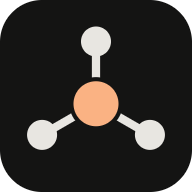
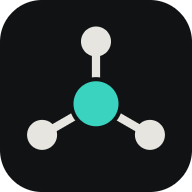
feat(web): add hybrid light and dark themes

Changed region(s): [[0.375, 0.4062, 0.625, 0.6562]]

diff --git a/web/src/styles.css b/web/src/styles.css
@@ -1,21 +1,26 @@
-/* Hub console. Dark, compact, restrained; modeled on Claude Code web's structure. */
+/* Hub console. Gateway-neutral surfaces with Hub's warm editorial session content. */
 :root {
-  --bg: #141413;
-  --side: #1a1a18;
-  --raise: #1f1f1d;
-  --raise-2: #262624;
-  --line: #2a2a27;
-  --line-2: #3a3a36;
-  --text: #e8e6e1;
-  --muted: #9b9890;
-  --faint: #6f6c65;
-  --accent: #fab283;
-  --accent-ink: #1b130d;
-  --ok: #7fb685;
-  --warn: #e5c07b;
-  --err: #e06c75;
-  --add: #7fb685;
-  --del: #e06c75;
+  --bg: #f6f7f9;
+  --side: #eef0f3;
+  --raise: #ffffff;
+  --raise-2: #e8ebef;
+  --line: #d9dde3;
+  --line-2: #c9ced6;
+  --text: #22252a;
+  --muted: #69707b;
+  --faint: #9299a3;
+  --accent: #0e7268;
+  --accent-ink: #ffffff;
+  --ok: #16834a;
+  --warn: #9a5b08;
+  --err: #b42318;
+  --add: #16834a;
+  --del: #b42318;
+  --violet: #8954c7;
+  --orange: #b96508;
+  --blue: #2769b4;
+  --mark: #22252a;
+  --shadow: #1018281f;
   --serif: ui-serif, "Iowan Old Style", "Palatino Linotype", Palatino, Georgia, serif;
   --sans: system-ui, -apple-system, "Segoe UI", Roboto, "Helvetica Neue", Arial, sans-serif;
   --mono: ui-monospace, SFMono-Regular, "SF Mono", Menlo, Consolas, monospace;
@@ -24,7 +29,25 @@
   --col: 680px;
   --r: 8px;
   --font-scale: 1;
+  color-scheme: light;
+}
+:root[data-theme="dark"] {
   color-scheme: dark;
+  --bg: #101214; --side: #171a1e; --raise: #1b1f24; --raise-2: #22272d;
+  --line: #2d333b; --line-2: #3a424d; --text: #e7e5e0; --muted: #9ca3ad; --faint: #6f7782;
+  --accent: #3ad3bf; --accent-ink: #04201c; --ok: #50d890; --warn: #efb851; --err: #ff8e82;
+  --add: #50d890; --del: #ff8e82; --violet: #b68cff; --orange: #f2a340; --blue: #64a8ef;
+  --mark: #e7e5e0; --shadow: #00000066;
+}
+@media (prefers-color-scheme: dark) {
+  :root:not([data-theme="light"]) {
+    color-scheme: dark;
+    --bg: #101214; --side: #171a1e; --raise: #1b1f24; --raise-2: #22272d;
+    --line: #2d333b; --line-2: #3a424d; --text: #e7e5e0; --muted: #9ca3ad; --faint: #6f7782;
+    --accent: #3ad3bf; --accent-ink: #04201c; --ok: #50d890; --warn: #efb851; --err: #ff8e82;
+    --add: #50d890; --del: #ff8e82; --violet: #b68cff; --orange: #f2a340; --blue: #64a8ef;
+    --mark: #e7e5e0; --shadow: #00000066;
+  }
 }
 * { box-sizing: border-box; }
 /* Text size: every text size is in rem, and the root size follows --font-scale (Settings → Appearance, pinch). */
@@ -55,7 +78,7 @@ kbd { font: 0.6875rem var(--mono); color: var(--faint); border: 1px solid var(--
 .btn:disabled { opacity: 0.45; cursor: default; }
 .btn.small { min-height: 26px; height: auto; padding: 0 9px; font-size: 0.7812rem; }
 .btn.primary { background: var(--accent); color: var(--accent-ink); border-color: transparent; font-weight: 600; }
-.btn.primary:hover:not(:disabled) { background: #fbc29c; }
+.btn.primary:hover:not(:disabled) { background: color-mix(in srgb, var(--accent) 88%, var(--text)); }
 .btn.danger { color: var(--err); }
 .icon-btn { display: inline-grid; place-items: center; width: 30px; height: 30px; border-radius: 6px; border: 0; background: transparent; color: var(--muted); cursor: pointer; }
 .icon-btn:hover:not(:disabled) { background: var(--raise-2); color: var(--text); }
@@ -71,7 +94,7 @@ input:focus, select:focus, textarea:focus { outline: none; border-color: var(--l
 .chip .count { margin-left: 4px; color: var(--accent); }
 .card { background: var(--raise); border: 1px solid var(--line); border-radius: 10px; padding: 14px; }
 .banner { display: flex; gap: 12px; align-items: center; justify-content: space-between; border: 1px solid var(--line); background: var(--side); border-radius: var(--r); padding: 8px 12px; margin: 8px 0; }
-.banner.warn { border-color: #5a4a2a; color: var(--warn); margin: 0; border-radius: 0; border-width: 0 0 1px; }
+.banner.warn { border-color: color-mix(in srgb, var(--warn) 45%, var(--line)); color: var(--warn); margin: 0; border-radius: 0; border-width: 0 0 1px; }
 .badge { min-width: 18px; height: 18px; padding: 0 5px; border-radius: 9px; background: var(--accent); color: var(--accent-ink); font-size: 0.6875rem; font-weight: 700; display: inline-grid; place-items: center; }
 .badge-pill { margin-left: 6px; font-size: 0.6875rem; padding: 1px 6px; border-radius: 8px; border: 1px solid var(--line-2); color: var(--muted); }
 .badge-pill.off { color: var(--err); }
@@ -79,9 +102,9 @@ input:focus, select:focus, textarea:focus { outline: none; border-color: var(--l
 /* status */
 .status { display: inline-grid; place-items: center; width: 14px; height: 14px; flex: none; }
 .status-dot { width: 7px; height: 7px; border-radius: 50%; background: var(--faint); }
-.status.blocked .status-dot { background: var(--warn); box-shadow: 0 0 0 3px #e5c07b22; }
+.status.blocked .status-dot { background: var(--warn); box-shadow: 0 0 0 3px color-mix(in srgb, var(--warn) 14%, transparent); }
 .status.error .status-dot { background: var(--err); }
-.spinner { width: 12px; height: 12px; border-radius: 50%; border: 1.6px solid #fab28344; border-top-color: var(--accent); animation: spin 0.8s linear infinite; display: inline-block; flex: none; }
+.spinner { width: 12px; height: 12px; border-radius: 50%; border: 1.6px solid color-mix(in srgb, var(--accent) 27%, transparent); border-top-color: var(--accent); animation: spin 0.8s linear infinite; display: inline-block; flex: none; }
 .spinner.small { width: 10px; height: 10px; }
 @keyframes spin { to { transform: rotate(360deg); } }
 .unread-dot { width: 6px; height: 6px; border-radius: 50%; background: var(--accent); display: inline-block; margin-left: 6px; flex: none; }
@@ -98,12 +121,12 @@ input:focus, select:focus, textarea:focus { outline: none; border-color: var(--l
 .main { flex: 1; min-width: 0; position: relative; display: flex; flex-direction: column; min-height: 0; }
 .expand-sidebar { position: absolute; top: 9px; left: 8px; z-index: 5; }
 .shell.collapsed .topbar, .shell.collapsed .home-head { padding-left: 48px; }
-.conn-banner { background: #3a2f1a; color: var(--warn); text-align: center; font-size: 0.7812rem; padding: 3px; }
+.conn-banner { background: color-mix(in srgb, var(--warn) 16%, var(--bg)); color: var(--warn); text-align: center; font-size: 0.7812rem; padding: 3px; }
 
 .side-top { display: flex; align-items: center; justify-content: space-between; padding: 10px 8px 6px 14px; }
 .brand { display: flex; align-items: center; gap: 8px; }
 .brand-mark { flex: none; }
-.hub-mark { color: var(--text); --mark-gap: var(--bg); }
+.hub-mark { color: var(--mark); --mark-gap: var(--bg); }
 .hub-mark-gap { fill: var(--mark-gap); }
 .hub-mark-hub { fill: var(--accent); }
 .sidebar .hub-mark { --mark-gap: var(--side); }
@@ -139,7 +162,7 @@ input:focus, select:focus, textarea:focus { outline: none; border-color: var(--l
 .avatar.large { width: 40px; height: 40px; font-size: 1.0625rem; }
 
 /* menus and dialogs */
-.menu { position: fixed; z-index: 50; min-width: 200px; max-width: 320px; background: var(--raise); border: 1px solid var(--line-2); border-radius: 10px; padding: 4px; box-shadow: 0 12px 32px #0008; }
+.menu { position: fixed; z-index: 50; min-width: 200px; max-width: 320px; background: var(--raise); border: 1px solid var(--line-2); border-radius: 10px; padding: 4px; box-shadow: 0 12px 32px var(--shadow); }
 .menu-item { display: flex; align-items: center; gap: 6px; width: 100%; text-align: left; border: 0; background: transparent; padding: 6px 8px; border-radius: 6px; cursor: pointer; }
 .menu-item:hover:not(:disabled) { background: var(--raise-2); }
 .menu-item.danger { color: var(--err); }
@@ -170,7 +193,7 @@ input:focus, select:focus, textarea:focus { outline: none; border-color: var(--l
 .picker-opt[aria-selected="true"] .po-name { color: var(--accent); }
 .po-name { flex: 1; min-width: 0; overflow: hidden; text-overflow: ellipsis; }
 .po-mark { color: var(--accent); font-size: 0.75rem; }
-.toast { position: fixed; left: 50%; bottom: calc(24px + env(safe-area-inset-bottom)); transform: translateX(-50%); z-index: 60; display: flex; gap: 10px; align-items: center; background: var(--raise-2); border: 1px solid var(--line-2); border-radius: 10px; padding: 8px 12px; box-shadow: 0 8px 24px #0008; max-width: 92vw; }
+.toast { position: fixed; left: 50%; bottom: calc(24px + env(safe-area-inset-bottom)); transform: translateX(-50%); z-index: 60; display: flex; gap: 10px; align-items: center; background: var(--raise-2); border: 1px solid var(--line-2); border-radius: 10px; padding: 8px 12px; box-shadow: 0 8px 24px var(--shadow); max-width: 92vw; }
 .toast.err { border-color: #6a3036; }
 .toast.warn { border-color: #5a4a2a; }
 
@@ -277,13 +300,13 @@ input[type="text"].rename-field { flex: 1; min-width: 0; width: 100%; min-height
 .md > :last-child { margin-bottom: 0; }
 .md { min-width: 0; }
 .md p { margin: 0 0 0.7em; }
-.md h3, .md h4, .md h5, .md h6 { line-height: 1.35; margin: 1.15em 0 0.45em; font-weight: 600; letter-spacing: -0.005em; }
+.md h3, .md h4, .md h5, .md h6 { line-height: 1.35; margin: 1.15em 0 0.45em; font-weight: 600; letter-spacing: -0.005em; color: var(--violet); }
 .md h3 { font-size: 1.14em; padding-bottom: 0.25em; border-bottom: 1px solid var(--line); }
 .md h4 { font-size: 1.05em; }
-.md h5, .md h6 { font-size: 1em; color: var(--muted); }
+.md h5, .md h6 { font-size: 1em; color: color-mix(in srgb, var(--violet) 72%, var(--muted)); }
 .md ul, .md ol { margin: 0 0 0.7em; padding-left: 1.5em; }
 .md li { margin: 0.15em 0; }
-.md li::marker { color: var(--faint); }
+.md li::marker { color: var(--orange); }
 .md li > p { margin: 0; }
 .md li > :is(ul, ol) { margin: 0.15em 0 0.2em; }
 .md :is(ul, ol).loose > li { margin: 0.35em 0; }
@@ -292,17 +315,17 @@ input[type="text"].rename-field { flex: 1; min-width: 0; width: 100%; min-height
 .md li.task { list-style: none; position: relative; }
 .md li.task > input[type="checkbox"] { position: absolute; left: -1.35em; top: 0.3em; margin: 0; width: 0.95em; height: 0.95em; accent-color: var(--accent); }
 .md li.task > input:checked ~ p { color: var(--muted); }
-.md .inline-code { background: var(--raise-2); border: 1px solid var(--line); border-radius: 5px; padding: 0.05em 0.35em; font-size: 0.88em; overflow-wrap: anywhere; }
+.md .inline-code { color: var(--ok); background: color-mix(in srgb, var(--accent) 9%, var(--raise-2)); border: 1px solid color-mix(in srgb, var(--accent) 24%, var(--line)); border-radius: 5px; padding: 0.05em 0.35em; font-size: 0.88em; overflow-wrap: anywhere; }
 .md a .inline-code { color: inherit; }
 .md :is(th, td) .inline-code { white-space: nowrap; overflow-wrap: normal; }
-.md strong { font-weight: 600; color: #f3f1ec; }
+.md strong { font-weight: 600; color: var(--orange); }
 .md del { color: var(--faint); }
-.md mark { background: #fab28333; color: #ffd9bd; border-radius: 3px; padding: 0 0.15em; box-decoration-break: clone; -webkit-box-decoration-break: clone; }
+.md mark { background: color-mix(in srgb, var(--orange) 18%, transparent); color: var(--orange); border-radius: 3px; padding: 0 0.15em; box-decoration-break: clone; -webkit-box-decoration-break: clone; }
 .md .md-image { color: var(--accent); }
 .md .md-image::before { content: "🖼 "; }
 .md blockquote { border-left: 3px solid var(--line-2); margin: 0 0 0.7em; padding: 0.15em 0 0.15em 0.85em; color: var(--muted); }
 .md blockquote > :last-child { margin-bottom: 0; }
-.md a { color: var(--accent); text-decoration: underline; text-decoration-color: #fab28366; text-underline-offset: 2px; overflow-wrap: anywhere; }
+.md a { color: var(--ok); text-decoration: underline; text-decoration-color: color-mix(in srgb, var(--ok) 40%, transparent); text-underline-offset: 2px; overflow-wrap: anywhere; }
 .md a:hover { text-decoration-color: currentColor; }
 .md hr { border: 0; border-top: 1px solid var(--line); margin: 1em 0; }
 .md .table-wrap { overflow-x: auto; margin: 0 0 0.8em; border: 1px solid var(--line); border-radius: var(--r); max-width: 100%; }
@@ -310,7 +333,7 @@ input[type="text"].rename-field { flex: 1; min-width: 0; width: 100%; min-height
 .md th, .md td { padding: 0.4em 0.75em; border-bottom: 1px solid var(--line); text-align: left; vertical-align: top; overflow-wrap: normal; }
 .md th { background: var(--side); font-weight: 600; color: var(--text); white-space: nowrap; }
 .md tbody tr:last-child td { border-bottom: 0; }
-.md tbody tr:nth-child(even) td { background: #ffffff05; }
+.md tbody tr:nth-child(even) td { background: color-mix(in srgb, var(--text) 3%, transparent); }
 .md th + th, .md td + td { border-left: 1px solid var(--line); }
 .md .code-block { margin: 0 0 0.8em; border: 1px solid var(--line); border-radius: var(--r); background: var(--side); overflow: hidden; }
 .md .code-head { display: flex; align-items: center; gap: 2px; padding: 2px 4px 2px 10px; border-bottom: 1px solid var(--line); font-size: 0.8em; color: var(--faint); }
@@ -321,18 +344,15 @@ input[type="text"].rename-field { flex: 1; min-width: 0; width: 100%; min-height
 .md pre.code { margin: 0; padding: 0.7em 0.9em; overflow: auto; border: 0; border-radius: 0; background: none; line-height: 1.5; }
 .md .code-block.wrap pre.code { white-space: pre-wrap; overflow-wrap: anywhere; }
 .md pre code { background: none; padding: 0; }
-.tok-comment { color: #7d7a72; font-style: italic; }
-.tok-string { color: #a5c58b; }
-.tok-number { color: #e5a46c; }
-.tok-keyword { color: #c99ae0; }
-.tok-type { color: #e5c07b; }
-.tok-fn { color: #7fb4e0; }
-.tok-prop { color: #e8a0a0; }
-.tok-attr { color: #e5c07b; }
-.tok-tag { color: #e88f8f; }
-.tok-meta { color: #7fb4e0; }
-.tok-add { color: var(--add); background: #7fb6851a; }
-.tok-del { color: var(--del); background: #e06c751a; }
+.tok-comment { color: var(--faint); font-style: italic; }
+.tok-string { color: var(--ok); }
+.tok-number { color: var(--orange); }
+.tok-keyword { color: var(--violet); }
+.tok-type, .tok-attr { color: var(--orange); }
+.tok-fn, .tok-meta { color: var(--blue); }
+.tok-prop, .tok-tag { color: var(--err); }
+.tok-add { color: var(--add); background: color-mix(in srgb, var(--add) 10%, transparent); }
+.tok-del { color: var(--del); background: color-mix(in srgb, var(--del) 10%, transparent); }
 pre.code { white-space: pre; font-size: 0.75rem; }
 .fold-head { display: inline-flex; align-items: center; gap: 6px; border: 0; background: transparent; color: var(--muted); padding: 2px 0; cursor: pointer; font-size: 0.8125rem; }
 .fold-head:hover:not(:disabled) { color: var(--text); }
@@ -421,7 +441,7 @@ pre.code { white-space: pre; font-size: 0.75rem; }
 .field-error { color: var(--err); margin: 0; }
 .dock { flex: none; padding: 8px 0 calc(12px + env(safe-area-inset-bottom)); background: linear-gradient(transparent, var(--bg) 18px); }
 .composer-box { border: 1px solid var(--line-2); background: var(--raise); border-radius: 14px; padding: 10px 10px 6px 14px; }
-.composer-box:focus-within { border-color: #4a4a45; }
+.composer-box:focus-within { border-color: var(--line-2); }
 .composer textarea { width: 100%; border: 0; background: transparent; resize: none; padding: 0; min-height: 24px; max-height: 280px; line-height: 1.5; box-shadow: none; }
 .composer.dragging .composer-box { border-color: var(--accent); border-style: dashed; }
 .attachments { list-style: none; margin: 0 0 8px; padding: 0; display: flex; flex-wrap: wrap; gap: 8px; }
@@ -538,6 +558,11 @@ table.diff .sign { color: var(--faint); margin-right: 8px; }
 .list li.disabled { opacity: 0.6; }
 .name { font-weight: 500; }
 .switches { list-style: none; padding: 0; margin: 10px 0 0; display: flex; flex-direction: column; gap: 10px; }
+.appearance-theme { display: flex; align-items: center; justify-content: space-between; gap: 12px; }
+.theme-toggle { display: inline-flex; gap: 2px; padding: 3px; border: 1px solid var(--line); border-radius: 999px; background: var(--raise-2); }
+.theme-choice { display: inline-flex; align-items: center; gap: 5px; min-height: 28px; padding: 2px 9px; border: 0; border-radius: 999px; background: transparent; color: var(--muted); cursor: pointer; font-size: 0.75rem; }
+.theme-choice:hover { color: var(--text); }
+.theme-choice[aria-checked="true"] { background: var(--raise); color: var(--text); box-shadow: 0 1px 3px var(--shadow); }
 .switch { display: flex; align-items: center; justify-content: space-between; gap: 12px; cursor: pointer; }
 .speed { display: flex; align-items: center; gap: 12px; }
 .speed input { flex: 1; accent-color: var(--accent); }
@@ -599,7 +624,7 @@ button.link { background: none; border: 0; padding: 0; color: var(--accent, #fab
 .new-column { max-width: 720px; padding-top: 12vh; }
 .new-composer .composer-box { padding: 14px 12px 8px 16px; }
 .new-composer textarea { width: 100%; min-height: 72px; resize: none; border: 0; outline: 0; background: transparent; color: inherit; font: inherit; font-size: 0.9375rem; }
-.icon-send { display: inline-flex; align-items: center; justify-content: center; width: 32px; height: 32px; border-radius: 50%; border: 0; background: var(--accent); color: #1a1a1a; cursor: pointer; }
+.icon-send { display: inline-flex; align-items: center; justify-content: center; width: 32px; height: 32px; border-radius: 50%; border: 0; background: var(--accent); color: var(--accent-ink); cursor: pointer; }
 .icon-send:disabled { opacity: 0.4; cursor: default; }
 .env-meta { display: flex; flex-wrap: wrap; align-items: center; gap: 4px; margin-top: 8px; }
 .meta-chip { display: inline-flex; align-items: center; gap: 6px; border: 0; background: transparent; color: var(--faint); font-size: 0.7812rem; padding: 4px 8px; border-radius: 6px; cursor: pointer; max-width: 280px; }

diff --git a/web/src/app/Settings.tsx b/web/src/app/Settings.tsx
@@ -32,6 +32,8 @@ import { qrCode, qrSvgPath } from "../lib/qr"
 import { voicePrefs } from "../voice/audio"
 import { FONT_SCALE_DEFAULT, FONT_SCALE_MAX, FONT_SCALE_MIN, FONT_SCALE_STEP, formatScale } from "../core/font-scale"
 import { setTextScale, textScale } from "./text-size"
+import { THEMES, type Theme } from "../core/theme"
+import { setTheme, theme } from "./theme"
 
 const SECTIONS: Array<[string, string]> = [
   ["account", "Account"],
@@ -313,6 +315,19 @@ function AppearanceSection() {
   return (
     <Section id="appearance" title="Appearance">
       <ul class="switches">
+        <li class="appearance-theme">
+          <span id="color-theme">Color theme</span>
+          <div class="theme-toggle" role="radiogroup" aria-labelledby="color-theme">
+            <For each={THEMES}>
+              {(choice) => (
+                <button type="button" role="radio" aria-checked={theme() === choice} class="theme-choice" onClick={() => setTheme(choice as Theme)}>
+                  {choice === "light" ? "☀" : choice === "dark" ? "☾" : "▣"}
+                  <span>{choice[0]!.toUpperCase() + choice.slice(1)}</span>
+                </button>
+              )}
+            </For>
+          </div>
+        </li>
         <li class="speed">
           <label for="text-size">Text size</label>
           <input

diff --git a/web/index.html b/web/index.html
@@ -3,14 +3,20 @@
   <head>
     <meta charset="utf-8" />
     <meta name="viewport" content="width=device-width, initial-scale=1, viewport-fit=cover, interactive-widget=resizes-content" />
-    <meta name="theme-color" content="#141413" />
-    <meta name="color-scheme" content="dark" />
+    <meta name="theme-color" content="#f6f7f9" media="(prefers-color-scheme: light)" />
+    <meta name="theme-color" content="#101214" media="(prefers-color-scheme: dark)" />
+    <meta name="color-scheme" content="light dark" />
     <meta name="mobile-web-app-capable" content="yes" />
     <meta name="apple-mobile-web-app-capable" content="yes" />
     <meta name="apple-mobile-web-app-status-bar-style" content="black-translucent" />
     <meta name="apple-mobile-web-app-title" content="Hub" />
     <title>Hub</title>
     <script>
+      // Color theme before first paint. System is represented by no override.
+      try {
+        var t = localStorage.getItem("hub.theme")
+        if (t === "light" || t === "dark") document.documentElement.dataset.theme = t
+      } catch (e) {}
       // Text size before the first paint (web/src/core/font-scale.ts, key "hub.fontScale", 0.8–1.8).
       try {
         var s = parseFloat(localStorage.getItem("hub.fontScale"))

diff --git a/test/web-theme.test.ts b/test/web-theme.test.ts
@@ -1,0 +1,18 @@
+import { describe, expect, test } from "bun:test"
+import { parseTheme, themeAttribute } from "../web/src/core/theme"
+
+describe("appearance theme", () => {
+  test("accepts the three supported choices and defaults junk to system", () => {
+    expect(parseTheme("light")).toBe("light")
+    expect(parseTheme("dark")).toBe("dark")
+    expect(parseTheme("system")).toBe("system")
+    expect(parseTheme("sepia")).toBe("system")
+    expect(parseTheme(null)).toBe("system")
+  })
+
+  test("system delegates to CSS while explicit choices set an attribute", () => {
+    expect(themeAttribute("system")).toBeUndefined()
+    expect(themeAttribute("light")).toBe("light")
+    expect(themeAttribute("dark")).toBe("dark")
+  })
+})

diff --git a/web/src/app/theme.ts b/web/src/app/theme.ts
@@ -1,0 +1,25 @@
+import { createSignal } from "solid-js"
+import { THEME_KEY, parseTheme, themeAttribute, type Theme } from "../core/theme"
+
+function load(): Theme {
+  try {
+    return parseTheme(localStorage.getItem(THEME_KEY))
+  } catch {
+    return "system"
+  }
+}
+
+const [theme, updateTheme] = createSignal<Theme>(load())
+
+export { theme }
+
+export function setTheme(value: Theme): void {
+  const attr = themeAttribute(value)
+  if (attr) document.documentElement.dataset.theme = attr
+  else delete document.documentElement.dataset.theme
+  try {
+    if (value === "system") localStorage.removeItem(THEME_KEY)
+    else localStorage.setItem(THEME_KEY, value)
+  } catch {}
+  updateTheme(value)
+}

diff --git a/test/icons.test.ts b/test/icons.test.ts
@@ -16,11 +16,12 @@ describe("icons", () => {
     expect(readFileSync(pub("icon.svg"), "utf8")).toBe(markSVG({ tile: "rounded", scale: 1 }))
   })
 
-  test("uses the console palette: dark tile, light mark, accent hub", () => {
+  test("uses the console dark palette and teal brand hub", () => {
     const css = read("web/src/styles.css")
     expect(css).toContain(`--bg: ${BG};`)
     expect(css).toContain(`--text: ${LIGHT};`)
     expect(css).toContain(`--accent: ${ACCENT};`)
+    expect(ACCENT).toBe("#3ad3bf")
     const svg = markSVG({ tile: "rounded", scale: 1 })
     for (const color of [BG, LIGHT, ACCENT]) expect(svg).toContain(color)
   })

diff --git a/web/src/core/theme.ts b/web/src/core/theme.ts
@@ -1,0 +1,11 @@
+export const THEMES = ["light", "system", "dark"] as const
+export type Theme = (typeof THEMES)[number]
+export const THEME_KEY = "hub.theme"
+
+export function parseTheme(value: string | null): Theme {
+  return value === "light" || value === "dark" || value === "system" ? value : "system"
+}
+
+export function themeAttribute(theme: Theme): "light" | "dark" | undefined {
+  return theme === "system" ? undefined : theme
+}

diff --git a/scripts/gen-icons.ts b/scripts/gen-icons.ts
@@ -14,9 +14,9 @@ import path from "node:path"
 import { chromium, type Page } from "playwright-core"
 import { chromiumPath } from "../web/e2e/chromium"
 
-export const BG = "#141413"
-export const LIGHT = "#e8e6e1"
-export const ACCENT = "#fab283"
+export const BG = "#101214"
+export const LIGHT = "#e7e5e0"
+export const ACCENT = "#3ad3bf"
 
 const ROOT = path.join(import.meta.dir, "..")
 const OUT = path.join(ROOT, "web", "public")
